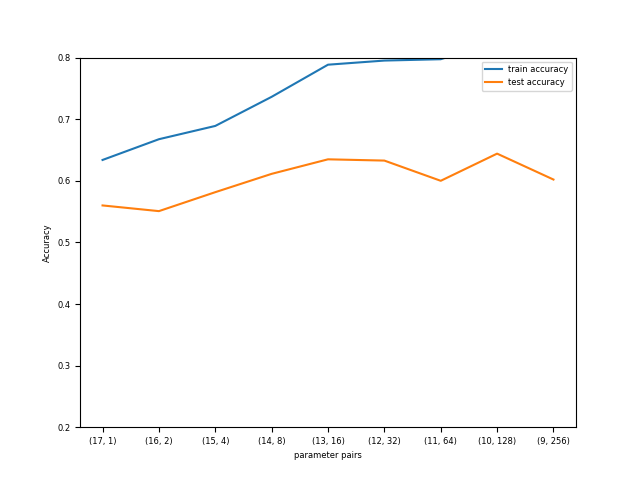
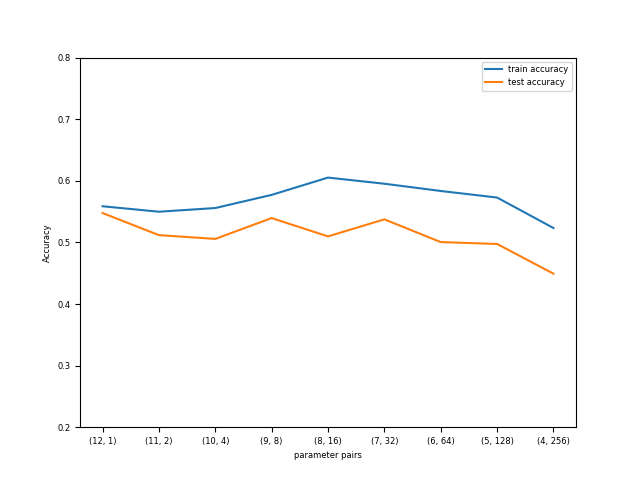
more code changes -- reran trees. logistic regression experiments do not work

diff --git a/models.py b/models.py
@@ -105,7 +105,7 @@ def decision_tree(data):
     LOGGER.info('min_samples_leaf: {}'.format(min_samples_leaf))
 
     settings = {
-        'clf__max_depth': stats.randint(11, 20),
+        'clf__max_depth': stats.randint(10, 20),
         'clf__min_samples_split': stats.randint(*min_samples_split),
         'clf__min_samples_leaf': stats.randint(*min_samples_leaf),
         'clf__max_features': stats.randint(1, n_features),
